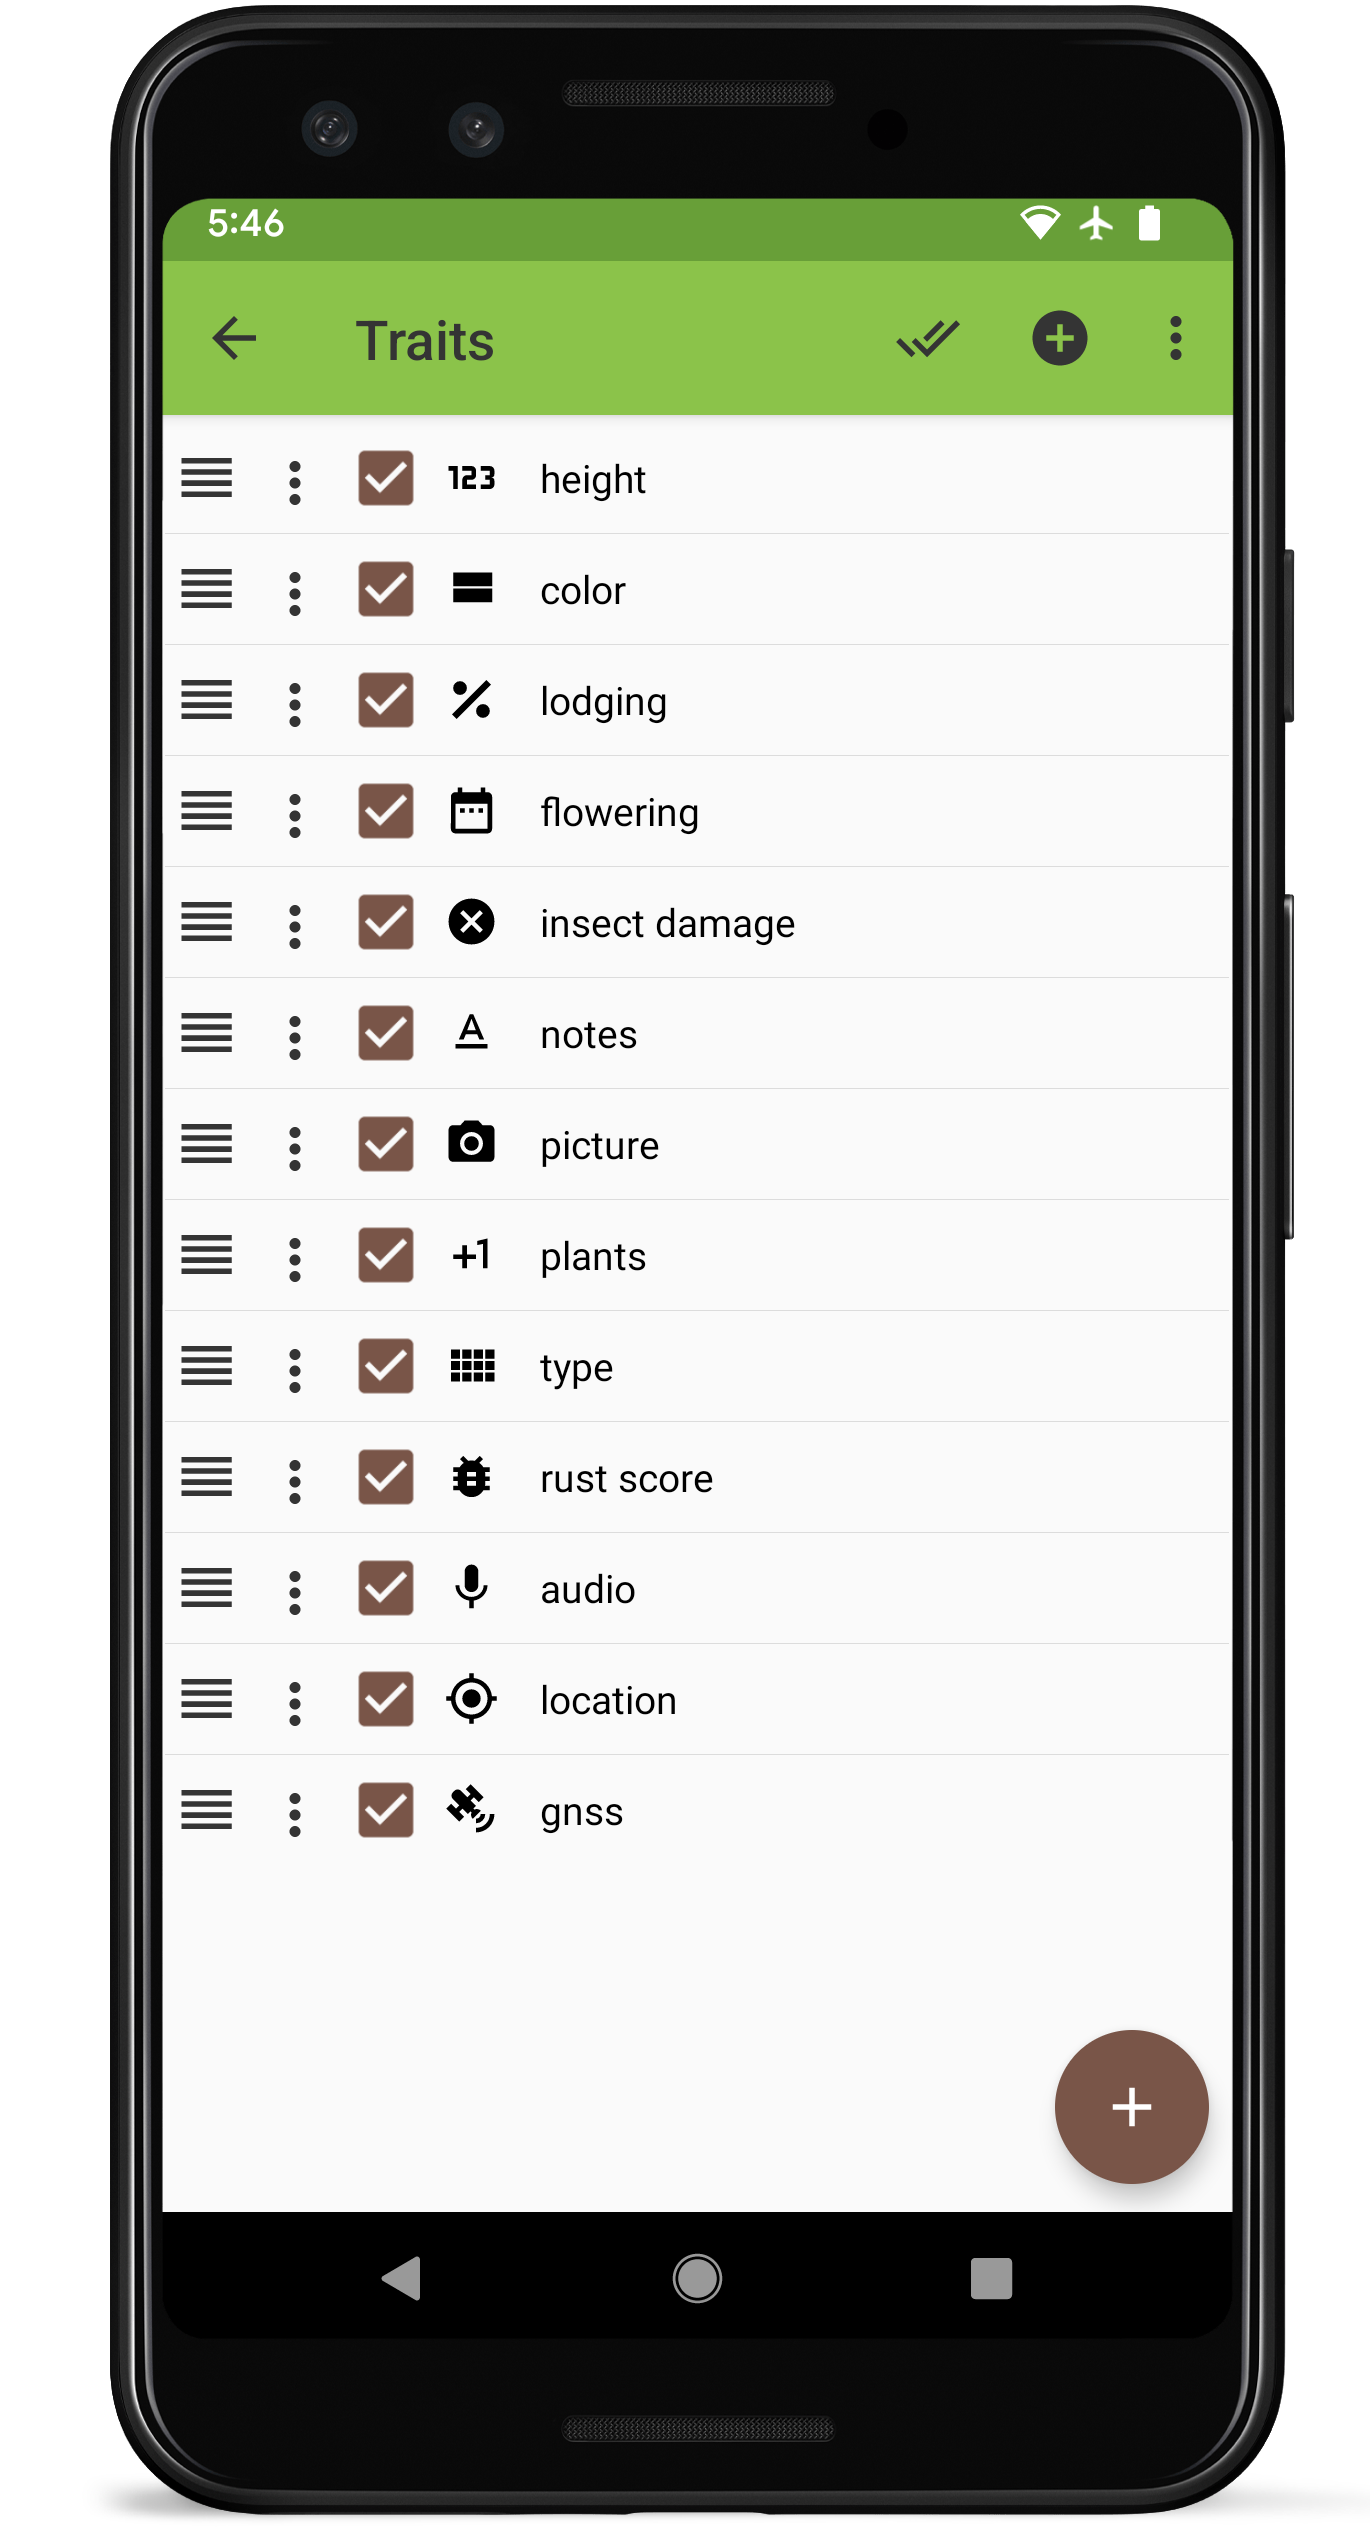
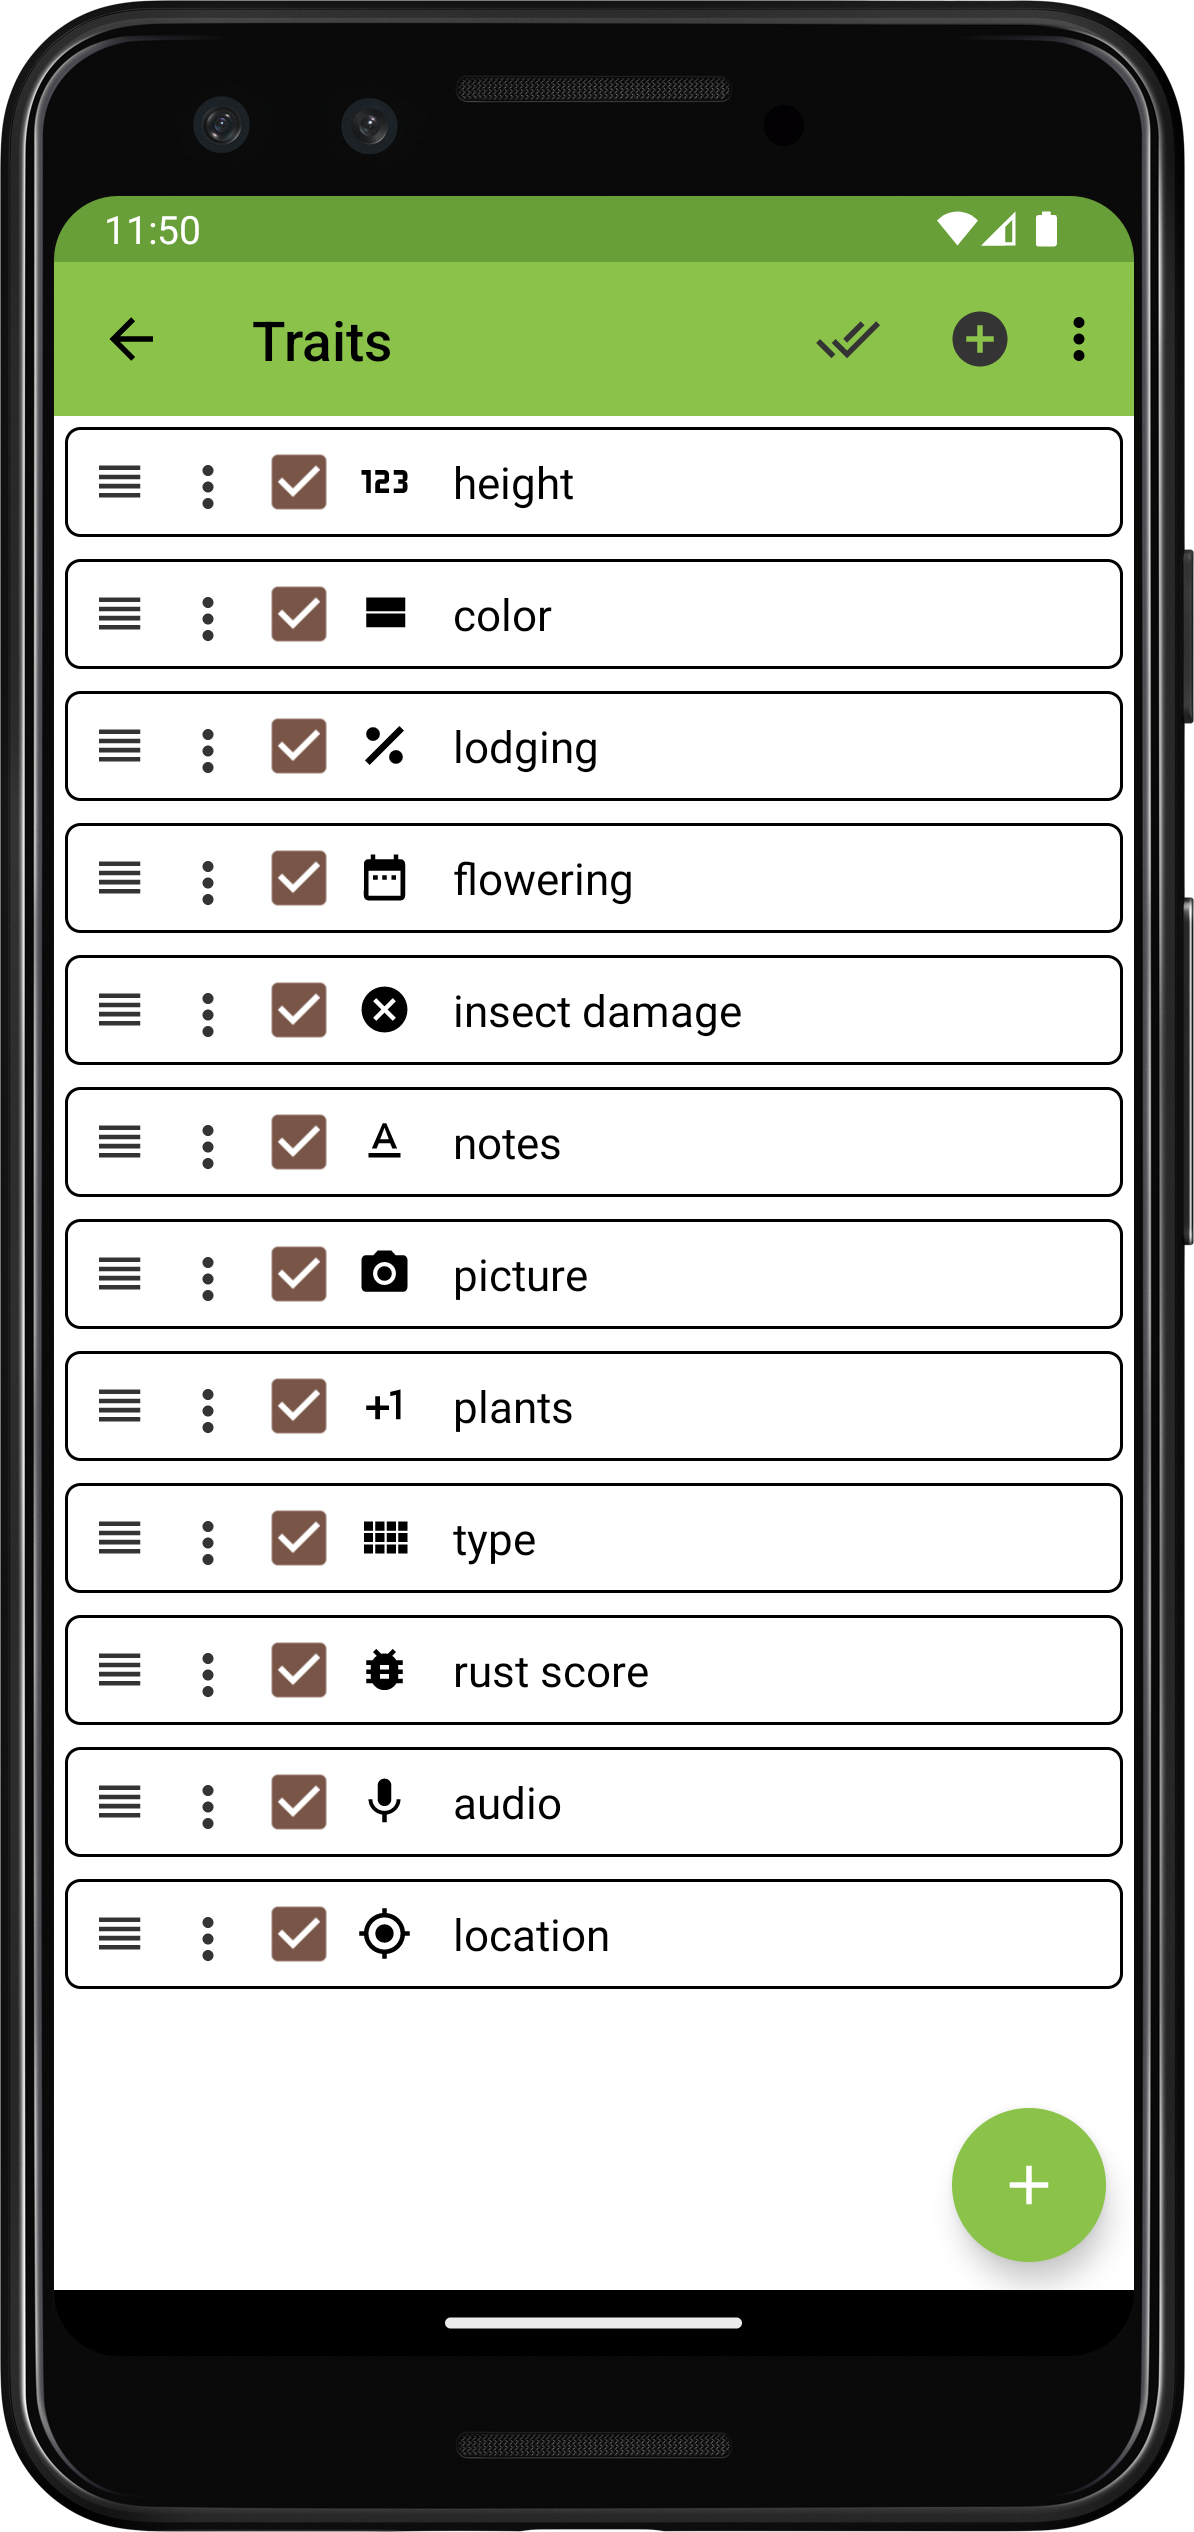
flesh out traits docs and update to 5.4

diff --git a/docs/source/traits.rst b/docs/source/traits.rst
@@ -16,26 +16,50 @@ Creating a Trait
 ----------------
 Traits can be created by pressing the large |add| icon at the bottom right of the screen, or the same icon in the toolbar. For each format, the creation screen adjusts to indicate which fields are required. Trait names must be unique. Each trait is created by specifying a trait ``format``, a trait ``name``, optional ``details``, and format-dependent fields such as ``min``, ``max``, and ``default``.
 
+.. figure:: /_static/images/traits/traits_create_joined.png
+   :width: 80%
+   :align: center
+   :alt: Trait creation process
+
+   Trait creation for a `numeric` trait, and other format options.
+
 Managing Traits
 ---------------
 Once created, traits can be manipulated using the following features:
 
-  * Traits can be reordered by pressing and dragging the stacked line icon on the far left of each trait line.
-  * Traits can be copied, edited, or deleted using the menu on each trait line.
-  * Traits can be hidden from the |collect| :doc:`collect` screen using the checkbox.
+Single trait changes
+~~~~~~~~~~~~~~~~~~~~
 
-.. figure:: /_static/images/traits/traits_sort_framed.png
+  * Reorder an individual trait by pressing and dragging the |reorder| icon on the far left of its trait line.
+  * Copy, edit, or delete an individual trait by pressing the |menu| icon on its trait line, then selecting the desired operation from a list.
+  * Hide or unhide an individual trait from the |collect| :doc:`collect` screen by checking/unchecking the checkbox on each trait line.
+
+.. figure:: /_static/images/traits/single_trait_menu_framed.png
    :width: 40%
    :align: center
-   :alt: Traits screen sort dialog
+   :alt: Traits screen single trait menu
 
-   Trait sorting options on the traits screen.
+   Single trait management menu.
 
-Traits can also be sorted by their name, format, or active status using the menu icon on the toolbar, and selecting sort. To make all traits active or hidden, press the |check-all| double check icon in the toolbar.
+All trait changes
+~~~~~~~~~~~~~~~~~~
 
-Importing/Exporting Traits
---------------------------
-Lists of traits can be created and transferred between different devices using the Import/Export option on the toolbar. Trait lists are stored as ``.trt`` files in the ``trait`` folder. Internally, ``.trt`` files store their data in a CSV format, but it is not recommended to manually edit these files.
+To make all traits active or hidden, press the |check-all| double check icon in the toolbar.
+
+Other changes affecting the whole trait list can be made by accessing the trait menu using the |menu| icon on right side of the toolbar
+
+.. figure:: /_static/images/traits/traits_menu_framed.png
+   :width: 40%
+   :align: center
+   :alt: Traits screen all traits menu
+
+   All traits mangement menu.
+
+  * Reorder all traits by selecting `sort`, then chosing your sort criterion (options include trait `Name`, `Format`, or `Checked` status)
+  * Remove all traits by selecting `Delete all traits`, then confirming the operation.
+  * Transfer traits in and out by selecting the `Import/Export`` option.
+  
+  Trait imports and exports are similar to field imports/exports, in that they rely either on files stored in a dedicated folder, or communication with a designated server via a |brapi| :doc:`brapi` connection. When using local storage, trait lists are stored as ``.trt`` files in the ``trait`` folder. Internally, ``.trt`` files store their data in a CSV format, but it is not recommended to manually edit these files.
 
 
 .. |add| image:: /_static/icons/traits/plus-circle.png
@@ -45,4 +69,10 @@ Lists of traits can be created and transferred between different devices using t
   :width: 20
 
 .. |check-all| image:: /_static/icons/traits/check-all.png
+  :width: 20
+
+.. |menu| image:: /_static/icons/traits/dots-vertical.png
+  :width: 20
+
+.. |reorder| image:: /_static/icons/traits/reorder-horizontal.png
   :width: 20
